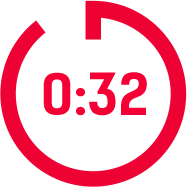
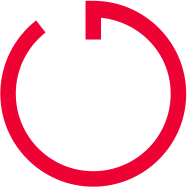
15:42
okolo_finala

Changed region(s): [[0.4545, 0.3743, 0.8021, 0.6417], [0.2139, 0.3743, 0.4545, 0.615], [0.4011, 0.5615, 0.4545, 0.615]]

diff --git a/js/game.js b/js/game.js
@@ -11,7 +11,10 @@ var game_obj;
 function iniGame() {
     game_obj = {
         id_tasc: '',
-        answers: ''
+        status: '',
+        answers: '',
+        qest_time: '',
+        answers_id: ''
     }
 
 
@@ -22,14 +25,24 @@ function iniGame() {
             $.each(data, function(i) {
                 $('.btn_box').append('<div class="nz nz' + data[i].taskNumber + '" id="' + data[i].taskNumber + '" ><div class="fon_zad blur" style="background-image:url(' + data[i].imageUrl + ')" ></div><div class="fi kz' + data[i].taskNumber + '"  style="background-image: url(../img/fish/f' + data[i].taskNumber + '.svg)"></div><div class="plash_bler"><span>ПРИСТУПИТЬ К ЗАДАНИЮ</span><div id="icon"></div></div></div>');
             });
-            console.log(data);
-            console.log(game_obj);
+
         }
     });
 
     $(document).on('click', '.nz', function() {
         var im = Number.parseInt($(this).attr('id') - 1);
         vOiData(im);
+        game_obj.id_tasc = b_zadach[im].taskNumber;
+        game_obj.status = b_zadach[im].result.completed;
+        game_obj.qest_time = b_zadach[im].maxAnswerSeconds;
+        game_obj.answers = b_zadach[im].answers;
+
+        $.each(game_obj.answers, function(i) {
+            console.log(game_obj.answers[i].content);
+            $(".game_quest_btn" + (i + 1)).html('<p>' + game_obj.answers[i].content + '</p>').attr('valid', game_obj.answers[i].valid).attr('awid', game_obj.answers[i].id);
+            $('.game_timer').html('<p>' + game_obj.qest_time + '</p>');
+        })
+        console.log(game_obj);
     });
 
     function vOiData(n) {
@@ -221,9 +234,23 @@ function isGameStop() {
     stat = 0;
     clearInterval(times_val);
     $("#image div").off("click");
-    // console.log("Не победа");
-    // console.log("Потрченно времени:" + dr);
-    // console.log("Количество шагов:" + moves);
     $("#image").addClass('fiasco');
     TweenMax.to(".btn_box", 0.5, { autoAlpha: 1 });
+}
+
+function initGame_timer() {
+    var cc = game_obj.qest_time;
+    console.log(cc);
+    var ge_tim = setInterval(function() {
+        if (cc > 0) {
+            cc--;
+            $('.game_timer>p').html(cc)
+            console.log(cc);
+        } else {
+            clearInterval(ge_tim);
+            console.log(ge_tim);
+            $(".game").addClass('fiasco');
+            $(".game_quest_block").addClass('fiasco');
+        }
+    }, 1000);
 }

diff --git a/js/control.js b/js/control.js
@@ -63,6 +63,7 @@ $('.user_btn_back').click(function() {
     });
     clearInterval(times_val);
     $("#image> div").remove();
+    $(".game_quest_btn>p").remove();
 
     console.log('Заново ИГРУ');
 
@@ -73,6 +74,9 @@ $('.btn_bac').click(function() {
     });
     TweenMax.to(".bloc_user_id", 0.5, {
         autoAlpha: 0
+    });
+    TweenMax.to(".global_window", 0.5, {
+        autoAlpha: 1
     });
     clearInterval(user_get);
     $(".user_bloc_zad_user_id> div").remove();
@@ -114,7 +118,7 @@ $('.user_to_game').click(function() {
     console.log('Начать игру на стенде');
     usErHod();
 });
-$('.user_to_exit').click(function() {
+$('.user_btn_y').click(function() {
 
     TweenMax.to(".bloc_user_id", 0.5, {
         autoAlpha: 0
@@ -122,10 +126,39 @@ $('.user_to_exit').click(function() {
     TweenMax.to(".global_window", 0.5, {
         autoAlpha: 1
     });
+    TweenMax.to(".block_exit_wrapp", 0.5, {
+        autoAlpha: 0
+    });
 
     console.log('Отменить и выйти');
     $(".user_bloc_zad_user_id> div").remove();
     oUtLOg();
+});
+$('.btn_toResult_game').click(function() {
+    TweenMax.to(".block_info", 0.5, {
+        autoAlpha: 1
+    });
+    TweenMax.to(".zadanie_block", 0.5, {
+        autoAlpha: 0
+    });
+    tImEruSer();
+});
+
+$('.user_btn_n').click(function() {
+    TweenMax.to(".block_exit_wrapp", 0.5, {
+        autoAlpha: 0
+    });
+});
+
+$('.user_to_exit').click(function() {
+    TweenMax.to(".block_exit_wrapp", 0.5, {
+        autoAlpha: 1
+    });
+    TweenMax.from(".user_bloc_exit", 0.4, {
+        autoAlpha: 0,
+        scale: 1.2,
+        ease: Back.easeOut
+    });
 });
 $('.btn_bac_n').click(function() {
     TweenMax.to(".zadanie_block", 0.5, {
@@ -181,3 +214,15 @@ function oUtLOg() {
     data = null;
     console.log('Назад', user);
 }
+
+$('.game_quest_block>').on('click', function() {
+    var ns_valid = $(this).attr('valid');
+
+    if (ns_valid == 1) {
+        console.log("victori");
+        console.log(ns_valid);
+    } else {
+        console.log("fiasko");
+        console.log(ns_valid);
+    }
+});

diff --git a/css/style.css b/css/style.css
@@ -601,7 +601,6 @@
 .game_quest_block {
     position: absolute;
     top: 1225px;
-    visibility: hidden;
     width: 100%;
     height: 466px;
     background: #fff;
@@ -630,13 +629,14 @@
 .game_quest_btn {
     position: relative;
     z-index: 999;
-    top: 265px;
+    top: 252px;
     float: left;
-    width: 532px;
+    width: 525px;
     height: 98px;
     margin: 4px;
     cursor: pointer;
     background: #bbd8f2;
+    left: 5px;
 }
 
 .splash_game {
@@ -1018,4 +1018,66 @@
     -webkit-box-sizing: border-box;
     -moz-box-sizing: border-box;
     box-sizing: border-box;
+}
+
+.user_bloc_exit {
+    position: relative;
+    background: url(../img/btn_appruv.png)no-repeat;
+    background-size: contain;
+    width: 881px;
+    height: 337px;
+    margin: 0 auto;
+    top: 900px;
+}
+
+.block_exit_wrapp {
+    position: absolute;
+    width: 100%;
+    height: 100%;
+    background-color: rgba(255, 255, 255, .8);
+    visibility: hidden;
+}
+
+.user_btn_y {
+    position: absolute;
+    bottom: 0;
+    left: 0;
+    width: 441px;
+    height: 108px;
+    cursor: pointer;
+}
+
+.user_btn_n {
+    position: absolute;
+    bottom: 0;
+    right: 0;
+    width: 441px;
+    height: 108px;
+    cursor: pointer;
+}
+
+.game_quest_btn p {
+    font-size: 25px;
+    font-family: "Kelson Sans";
+    color: rgb(39, 28, 93);
+    line-height: 1.2;
+    text-align: center;
+    position: absolute;
+    vertical-align: middle;
+    width: 100%;
+    top: 36px;
+}
+
+.game_timer p {
+    position: absolute;
+    font-size: 90px;
+    font-family: "Kelson Sans";
+    color: #FF0035;
+    font-weight: bold;
+    line-height: 1.273;
+    text-align: center;
+    width: 100px;
+    height: 100px;
+    left: 43px;
+    top: 43px;
 }

diff --git a/index.html b/index.html
@@ -75,11 +75,11 @@
             <div class="user_btn_bac_zadach"></div>
             <div class="game_quest_block">
                 <div class="game_puzzle"></div>
-                <div class="game_timer"></div>
-                <div class="game_quest_btn"></div>
-                <div class="game_quest_btn"></div>
-                <div class="game_quest_btn"></div>
-                <div class="game_quest_btn"></div>
+                <div class="game_timer">30</div>
+                <div class="game_quest_btn game_quest_btn1"></div>
+                <div class="game_quest_btn game_quest_btn2"></div>
+                <div class="game_quest_btn game_quest_btn3"></div>
+                <div class="game_quest_btn game_quest_btn4"></div>
             </div>
 
         </div>
@@ -92,6 +92,12 @@
             <div class="user_bloc_inf">
                 <div class="user_bloc_zad_user_id">
 
+                </div>
+            </div>
+            <div class="block_exit_wrapp">
+                <div class="user_bloc_exit">
+                    <div class="user_btn_y"></div>
+                    <div class="user_btn_n"></div>
                 </div>
             </div>
         </div>
@@ -124,11 +130,7 @@
             <div class="block_txt3"></div>
         </div>
 
-        <div class="push_block">
-            <div class="tex_push"></div>
-            <div class="btn_push_y"></div>
-            <div class="btn_push_n"></div>
-        </div>
+
     </div>
     <script src="js/main.js">
     </script>

diff --git a/js/poisk.js b/js/poisk.js
@@ -14,13 +14,14 @@
      clearTimeout(timeOut);
 
  });
- input.on('blur', function() {
+ input.on('mouseover', function() {
      $('.lain_block_glw>div').remove();
      lOadTabsRey();
  });
  input.on('focus', function() {
-     input.value = '';
+     $(this).select();
  });
+
 
  function poIsk(value) {
 
@@ -37,11 +38,7 @@
          success: function(data) {
              $('.lain_block_glw>div').remove();
              $.each(data, function(i) {
-                 //  console.log(data[i].user.name);
-                 //  console.log(data[i].user.picture);
-                 //  console.log(data[i].seconds);
-                 //  console.log(data[i].turns);
-                 //  console.log(data[i]);
+
                  $('.lain_block_glw').append('<div class="lb"><div class="icon"><p>' + (i + 1) + '</p></div><div class = "us_phptp" style = "background-image: url(' +
                      data[i].user.picture + '");></div><div class="us_name"><p>' + data[i].user.name +
                      '</p></div><div class="time">Время<span>' + data[i].seconds + '</span></div><div class="steps">Шаги<span>' + data[i].turns + '</span></div></div>');

diff --git a/js/sinhro.js b/js/sinhro.js
@@ -68,7 +68,7 @@ function iNfIll() {
         autoAlpha: 1,
         delay: 0.8
     });
-    console.log(user);
+
 }
 
 function userApruv() {
